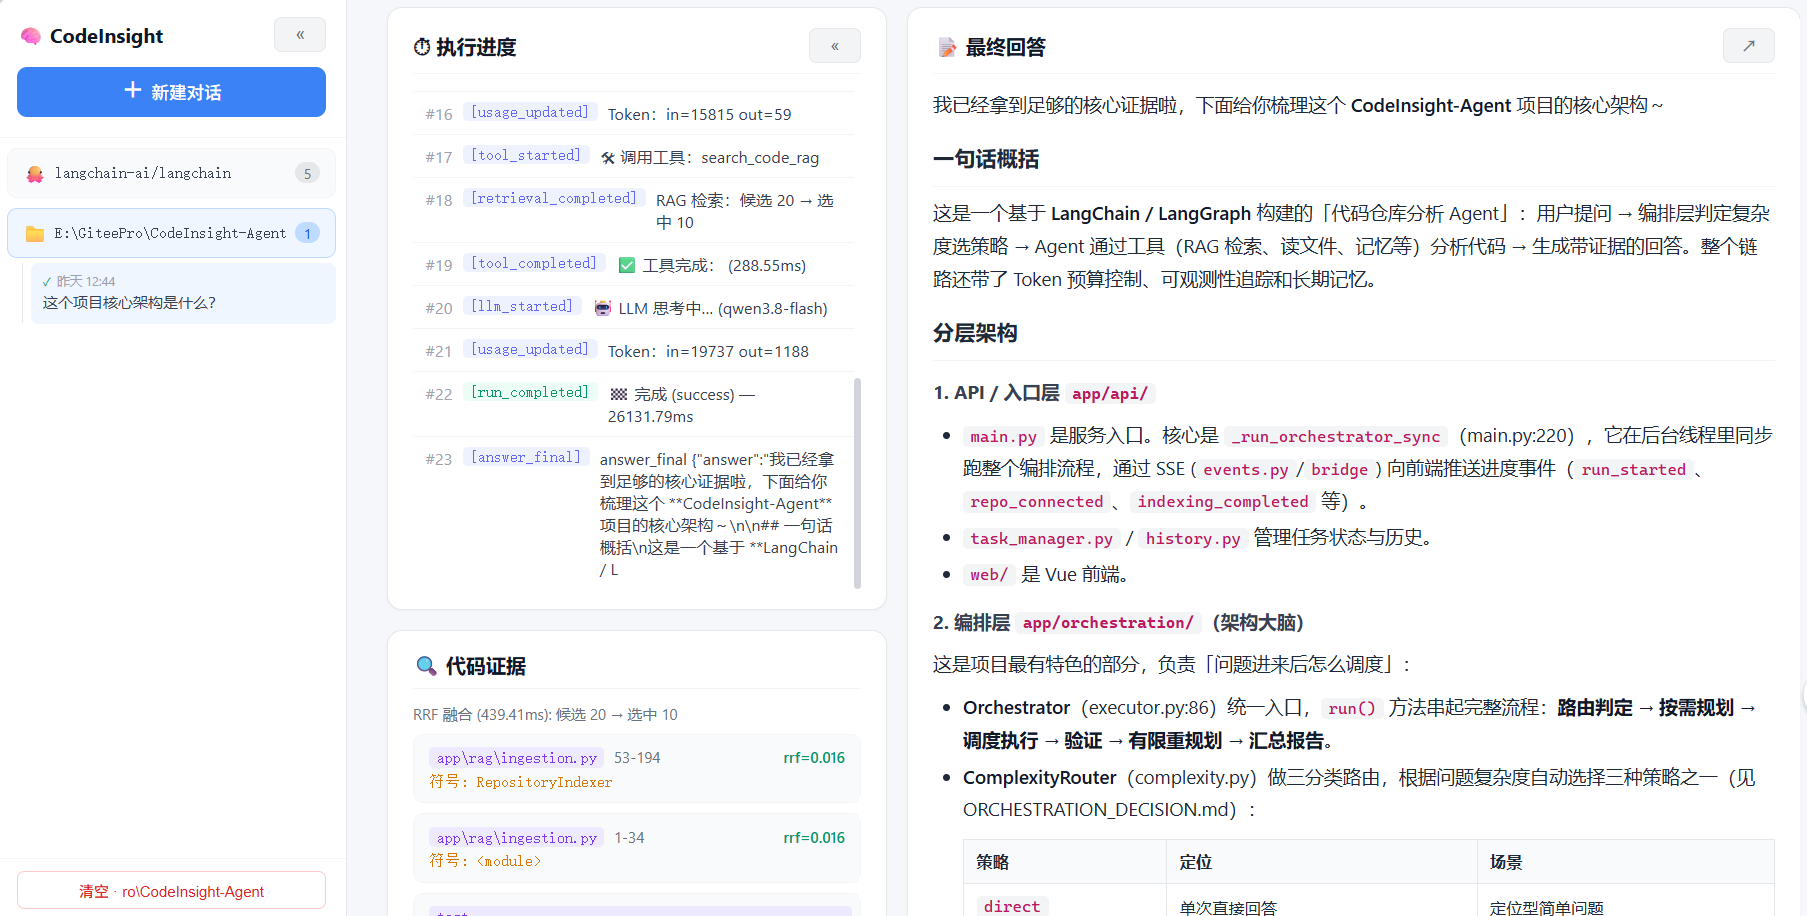
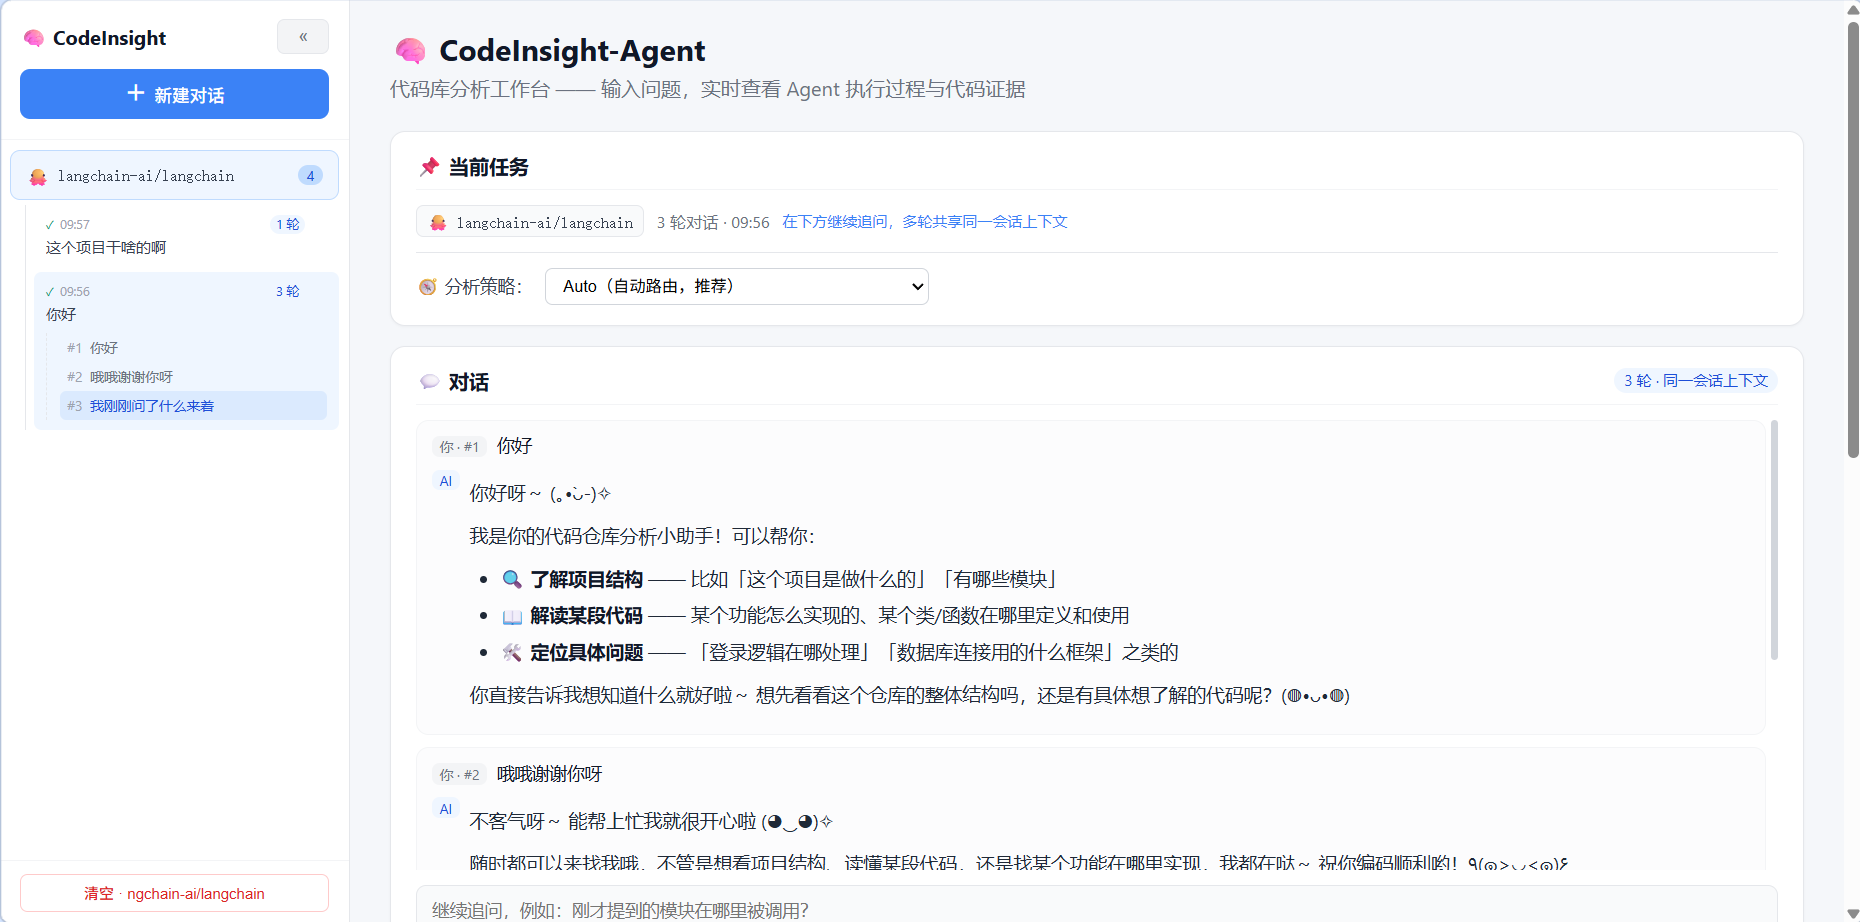
docs: 更新界面预览截图
- 换成任务模型上线后的新界面：主界面、本地仓库、GitHub 仓库配置、
  任务内多轮对话、执行过程与最终回答
- 删除旧的执行进度 / 代码证据 / 最终回答三张截图

diff --git a/README.md b/README.md
@@ -12,17 +12,17 @@ CodeInsight-Agent 是一个「代码仓库理解」方向的 LLM Agent 项目。
 
 ![主界面](docs/images/01-home.png)
 
-![仓库配置](docs/images/02-repo-config.png)
+![本地仓库配置](docs/images/02-repo-config.png)
 
-### 执行过程与代码证据
+![GitHub 仓库配置](docs/images/03-github-config.png)
 
-![执行进度](docs/images/03-progress.png)
+### 任务内多轮对话
 
-![代码证据](docs/images/04-evidence.png)
+![任务内多轮对话](docs/images/04-chat-turns.png)
 
-### 最终回答
+### 执行过程与最终回答
 
-![最终回答](docs/images/05-answer.png)
+![执行进度、代码证据与最终回答](docs/images/05-progress-answer.png)
 
 ---
 
